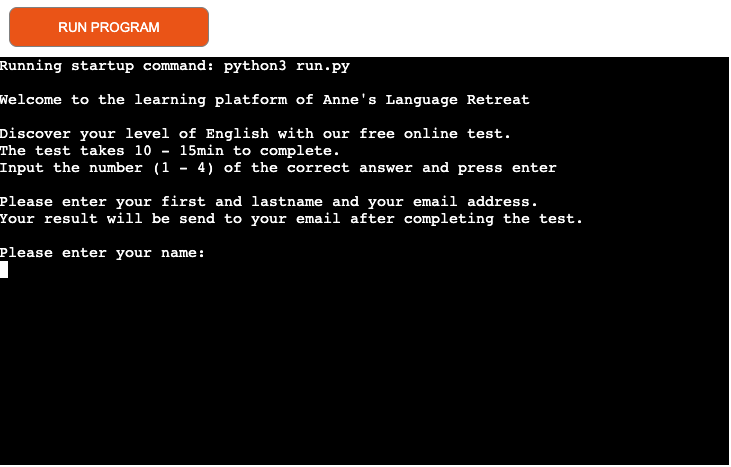
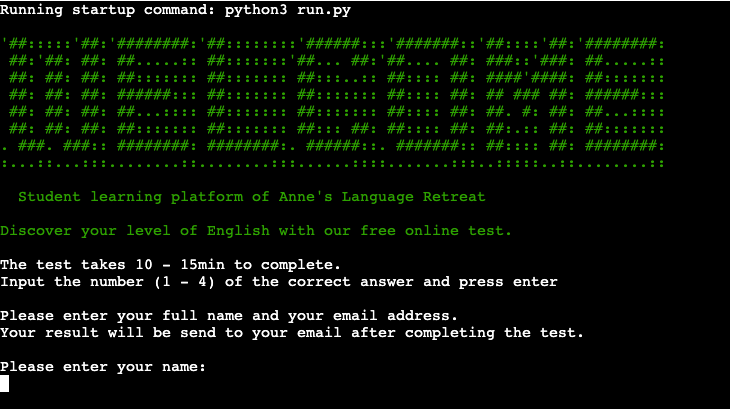
maint: finalise README.md, add/make corrections to content and media

diff --git a/run.py b/run.py
@@ -182,7 +182,7 @@ def record_results(
                 cefr_level,
             ]
         )
-        print("Your results will be send in an email shortly.")
+        print("Results recorded successfully. Results will besent shortly.")
 
     except Exception as e:
         print(f"Apologies, an error occurred while recording the results: {e}")

diff --git a/README.md b/README.md
@@ -9,7 +9,6 @@
 - [Testing](#testing)
   - [Initial Checks](#initial-checks)
   - [Bugs](#bugs)
-  - [Remaining Bugs](#remaining-bugs)
   - [Validator Testing](#validator-testing)
 -  [Deployment](#deployment)
 -  [Usage](#usage)
@@ -23,10 +22,11 @@
 
 ## Overview
 This Python application assesses a student's English level based on vocabulary, grammar, and text comprehension. Results are recorded in Google Sheets, saved to a JSON file  and then exported to Zapier to automatically send an email to the student with their results.
-The application is part of a learning platform from a Homestay Host & English Tutor who uses the results for developping an individual course plan for each student to address their needs in the most efficient way.
 The error handling is robust and user-friendly, accounting for common errors caused by user action such as out of the bound or incorrect character input as well as for system issues, e.g. data not correctly pulled or pushed from and to external sheets or data not transmitted correctly to trigger the automated email to the user after completing the test.
+The application is part of a learning platform and is planned to be used for developing an individual course plan for students based on the results to address their needs and learning goals in the most efficient way.
+The results from the assessment test can also be used to make recommendations for future studies or help students choose the right course to start with on their language learning journey.
 
-A live version of my project:
+The live link can be found here - https://english-level-test-f602597137c6.herokuapp.com/
 
 ![Responsive Mockup](readme_media/mockup.png)
 
@@ -134,19 +134,19 @@ The total score determines the user's CEFR level:
 
 ### Sample Question
 
-- The user has to answer a sample question after entering their details. The sample question demomstrates to the user how the quiz works and the way how they have to enter their answer. The user receives immediate feedback when they enter any character other then a number.
+The user has to answer a sample question after entering their details. The sample question demomstrates to the user how the quiz works and the way how they have to enter their answer. The user receives immediate feedback when they enter any character other then a number.
 
 ![Sample Question](./readme_media/error_handling_sample_question.png)
 
 
 ### Administer quiz via command-line interface
 
-- The assessment quiz runs in the Code-Institute mockup terminal in Heroku.
+The assessment quiz runs in the Code-Institute mockup terminal in Heroku.
 
 ![Administer Quiz](readme_media/initial_view.png)
 
-- The questions are staged when the assessment quiz has finished loading. 
-- The questions are displayed one question after the other, the new question only after the user has answered the previous one and hit enter.
+The questions are staged when the assessment quiz has finished loading. 
+The questions are displayed one question after the other, the new question only after the user has answered the previous one and hit enter.
 
 ![Questions Vocabulary](./readme_media/sample_question_quiz.png)
 ![Questions Grammar](./readme_media/grammar_questions.png)
@@ -155,42 +155,43 @@ The total score determines the user's CEFR level:
 
 ### Calculate and determine CEFR level
 
-- While the user completes the quiz the score is updated for each question answered correctly: +1 in the vocabulary and grammar section, +4 in the section for text comprehension. 
-    - 'Current score' displays the points achieved up to this point to the user. A final interim score is calcualted and displayed to the user when a section is completed.
-    - Upon completing the quiz the user is presented with their final score, their score for each section and their current CEFR level.
+While the user completes the quiz the score is updated for each question answered correctly: +1 in the vocabulary and grammar section, +4 in the section for text comprehension. 
+
+- `Current score` displays the points achieved up to this point to the user. A final interim score is calcualted and displayed to the user when a section is completed.
+- Upon completing the quiz the user is presented with their final score, their score for each section and their current CEFR level.
 
 ![Final Score/CEFR Level](./readme_media/final_score.png)
 
 
 ### Record and export results
 
-- The result gets recorded in the results_sheet and results.json
+The result gets recorded in the results_sheet and results.json
 
 ![Final Score/CEFR Level Sheet](./readme_media/resultsSheet.png)
 ![Final Score/CEFR Level JSON](./readme_media/result_json.png)
 
-- The app then sends the results to the ZAP and the user receives an email with their results for their records and a course recommendation.
+The app then sends the results to the ZAP and the user receives an email with their results for their records and a course recommendation.
 
 ![Email Zap](./readme_media/email_zap.png)
 
 
 ### Robust and user-friendly error handling
 
-- The error handling is robust and user-friendly, accounting for common errors caused by user action such as out of the bound or incorrect character input as well as for system issues, e.g. 
-    - data not correctly pulled or pushed from and to external sheets
-    - data not transmitted correctly to trigger the automated email the user receives after completing the test.
+The error handling is robust and user-friendly, accounting for common errors caused by user action such as out of the bound or incorrect character input as well as for system issues, e.g. 
+- data not correctly pulled or pushed from and to external sheets
+- data not transmitted correctly to trigger the automated email the user receives after completing the test.
 
 
 #### When the user inputs their name and email address:
-    The system allows a maximum of 20 characters for the name. Should the user enter more characters they will receive a message informing them that the max. length allowed is 20 characters.
+- The system allows a maximum of 20 characters for the name. Should the user enter more characters they will receive a message informing them that the max. length allowed is 20 characters.
 
-    A feedback message is provided should the email entered not be in the correct format xxx@gmail.com
+- A feedback message is provided should the email entered not be in the correct format xxx@gmail.com
 
 ![Error Handling user input: details](./readme_media/error_handling_user_input.png)
 
 
 #### When the user enters any other character than a number as input to answer a question:
-    Immediate feedback is provided when the user types in a letter or any other character which is not a number.
+- Immediate feedback is provided when the user types in a letter or any other character which is not a number.
 
 ![Error Handling user input: quiz answer](./readme_media/error_handling_sample_question.png)
 
@@ -202,8 +203,19 @@ The total score determines the user's CEFR level:
 
 ### Features left to implement
 
-- a freestyle section to test the students writing skills
-- randomizing of the questions within the sections
+- a freestyle section to test the students writing skills and get a better inside on their actual ability to use the language
+- randomizing of the questions within the sections to prevent cheating by restarting the test mutiple times or for the purpose of using the test for learning new language items
+
+
+## Code Quality and Version Control
+
+- PEP8 Compliance: The code has been checked against PEP8 standards using PEP8 online to ensure consistency and readability. No PEP8 errors were found during the validation process.
+
+- Linting: `Pylint` was used to check for style violations, including line length. I corrected detected violations by installing and running `Black`.
+
+- Comments: Functions and classes include docstrings to describe their purpose, inputs, and outputs.
+
+- Version control is managed using Git and GitHub, with a focus on maintaining a clean and organized history. Regular commits follow a consistent format and describe the features implemented and/or reasons for changes made to existing features.
 
 
 ## Testing
@@ -213,7 +225,7 @@ The total score determines the user's CEFR level:
 
 To catch and fix potential bugs early I tested the functionality of the code thoroughly after I implmeneted a new function using print statements in the relevant places and checked the output matched the results I expected before moving on.
 
-I confirmed that all errors caused by user action are handeled the expected way and the corresponding feedback messages are given to the user by giving invalid inputs:
+I confirmed that all errors caused by user action are handeled the expected way and the corresponding feedback messages are given to the user by entering invalid inputs:
 
 - strings where numbers were expected
 - out of bounds inputs
@@ -221,9 +233,35 @@ I confirmed that all errors caused by user action are handeled the expected way 
 
 I tested both, my local terminal and the Code Institute Heroku terminal.
 
-I reviewed my Google Sheets to ensure the input is free of typos and checked that the value for 'Correct Answer' matches the corresponding index in the Python code.
+I reviewed my Google Sheets to ensure the input is free of typos and checked that the value for `Correct Answer` matches the corresponding index in the Python code.
 
-I used the raise keyword to provoke errors to check that system related error such as data not getting pushed to the results sheet and data not getting send to the ZAP are caught and handled correctly.
+I used the raise keyword to provoke errors to check that system related errors such as data not getting pushed to the results sheet and data not getting send to the ZAP are caught and handled correctly.
+
+| Feature Tested                | Expected Outcome                                           | Actual Outcome                                             |
+|-------------------------------|------------------------------------------------------------|------------------------------------------------------------|
+| User data input (name)        | User is presented with promt to enter their name           | Prompt displayed correctly                                 |
+| Error Handling (Invalid Input)| Input > 20 characters not accepted, error message displayed| Message displayed correctly: Name should not exceed 20     |
+|                               |                                                            | characters. Please try again.                              |
+| User data input (email)       | User is presented with promt to enter their name           | Prompt displayed correctly                                 |
+| Error Handling (Invalid Input)| Incorrect email format not acceppted, error message        | Message displayed correctly: Invalid email format. The     |
+|                               | displayed.                                                 | format should be name@email.com                            |
+| Sample Question Display       | User is presented with a sample question after             | Sample question displayed correctly                        |
+| Error Handling (Invalid Input)| User receives error message when entering any other        | Error message displayed as expected: Invalid input. Please |
+|                               | character than a number                                    | enter a number between 1 and 4                             |
+| Import Questions from Sheets  | Questions loaded successfully without errors               | Questions displayed correctly                              |
+| Error Handling (Invalid Input)| User receives error message when entering any other        | Error message displayed as expected: Invalid input. Please |
+| when asnwering questions      | character than a number                                    | enter a number between 1 and 4                             |
+| Scoring System                | Points are correctly calculated and displayed              | Scoring system worked accurately and displayed correct     |
+|                               |                                                            | points                                                     |
+| CEFR Level Determination      | User is assigned the correct CEFR level based on score     | CEFR level was accurately determined and matched expected  |
+|                               |                                                            | results                                                    |
+| Result Recording              | User results are saved to Google Sheets and JSON file      | Results recorded successfully in both Sheets and JSON file |
+|                               |                                                            | Success message corretly displayed                         |
+| Email Dispatch via Zapier     | User receives email with quiz results                      | Email sent successfully, user received results in their    |
+|                               |                                                            | inbox                                                      |
+| Error Handling (dispatch)     | Appropriate error message displayed                        | Correct error message displayed:                           |
+| to Zapier failed              |                                                            | Failed to send results. Status code:                       |
+|                               |                                                            | Error sending data to Z.:                                  |
 
 
 ### Bugs
@@ -243,7 +281,7 @@ There are no bugs remaining.
 ### Validator Testing:
 
 - PEP8
-    - No errors were returned from PEP8online.com
+    - No errors were returned from `PEP8online.com`
 
 
 
@@ -252,11 +290,22 @@ There are no bugs remaining.
 This project was deployed using a mock terminal provided by Code Institute for Heroku
 
 Steps for deployement
-- Clone or fork the repository
-- Install required libraries: `pip install gspread google-auth`
-- Set up a Google Sheets API and update `credentials.json`
+- **Fork or Clone the repository:**
+   ```bash
+   git clone https://https://github.com/merzann/english-level-test
+   cd english-level-test
+
+- Install required libraries: 
+    - `pip install gspread google-auth` 
+    - `pip install pyfiglet` 
+    - `pip install colorama` from `colorama` import `Fore, Back, Style`
+       colorama.init(autoreset=True)
+- Create a Google Cloud account if you do not already have one
+- Set up a Google Sheets API and update `creds.json`
+- Add requirements for deployment: `pip3 freeze > requirements.txt`
+- Create a Heroku account if you don't have one already
 - Create a new Heroku App
-- Set the buildpacks to Python and NodeJS in that order
+- Set the buildpacks to `Python` and `NodeJS` in that order
 - Link the Heroku App to the repository
 - Click on DEPLOY
 
@@ -265,14 +314,20 @@ The live link can be found here - https://english-level-test-f602597137c6.heroku
 
 ## Usage
 
-Ensure you have Python installed. This application requires Python 3.6 or later.
-Run the script and follow the instructions to complete the quiz. The application will guide you through a series of questions to determine your English proficiency level. Results are saved in `results.json`.
-Use Google Chrome or Mozilla Firefox. The mockup terminal does not work correctly in Safari.
+- Ensure you have Python installed. This application requires `Python 3.6` or later.
+- Install the dependencies: `pip install -r requirements.txt`
+- Run the script and follow the instructions to complete the quiz. The application will guide you through a series of questions to determine your English proficiency level. Results are saved in `results.json`.
+- Use Google Chrome or Mozilla Firefox. The mockup terminal does not work correctly in Safari.
 
 
 ## Contributing
 
-Please fork the repository and submit pull requests.
+- Fork the repository
+- Create a new branch (`git checkout -b feature-branch`)
+- Commit your changes (`git commit -am 'Add new feature`)
+- Push to the branch (`git push origin feature-branch`)
+- Create a new Pull Request
+
 
 
 ## Acknowledgement
@@ -282,7 +337,7 @@ Please fork the repository and submit pull requests.
 - I would like to thank the Stack Overflow community for pointing me in the right direction when I ran into the scoring issue.
 
 ### Media
-- Reading text: National Geographic Education, Last Updated February 21, 2024, National Geographic Society, National Geographic Society
+- Reading text: National Geographic Education, Last Updated February 21, 2024, National Geographic Society
 
 
 ## Author
